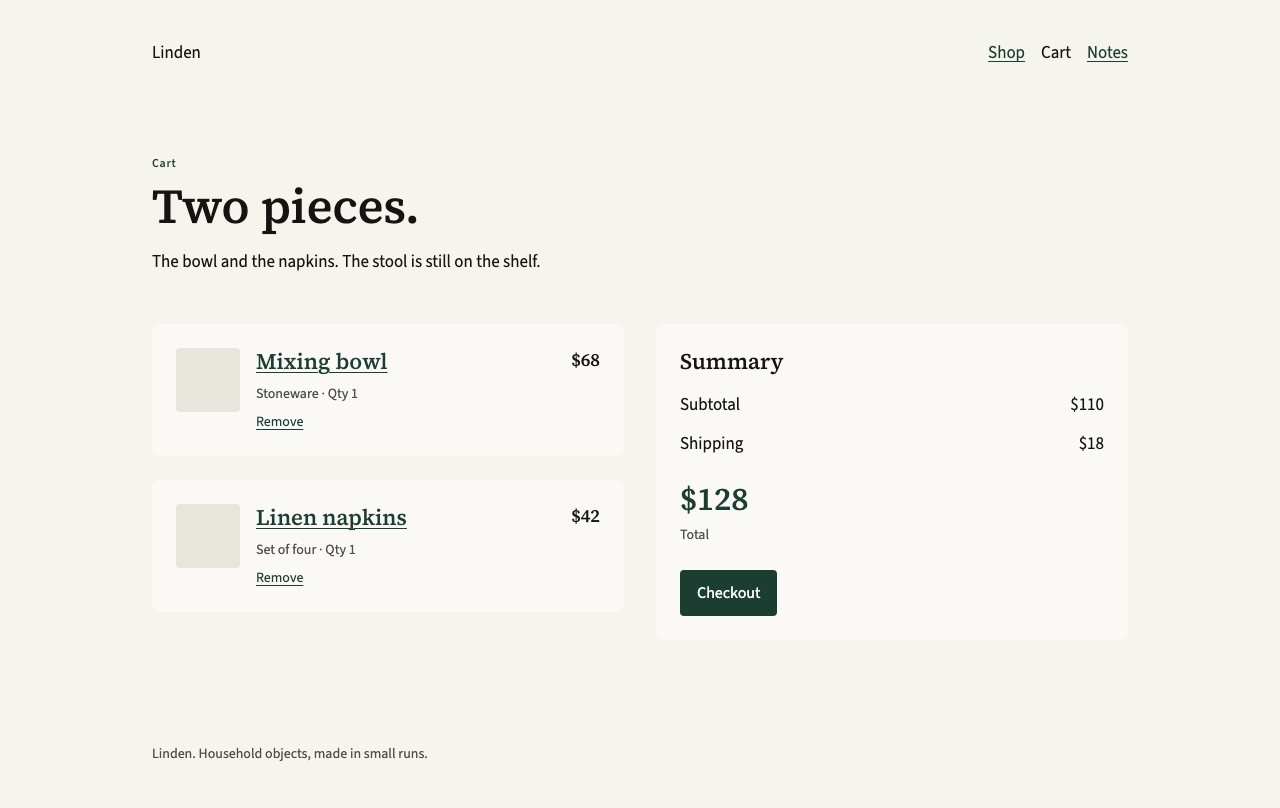
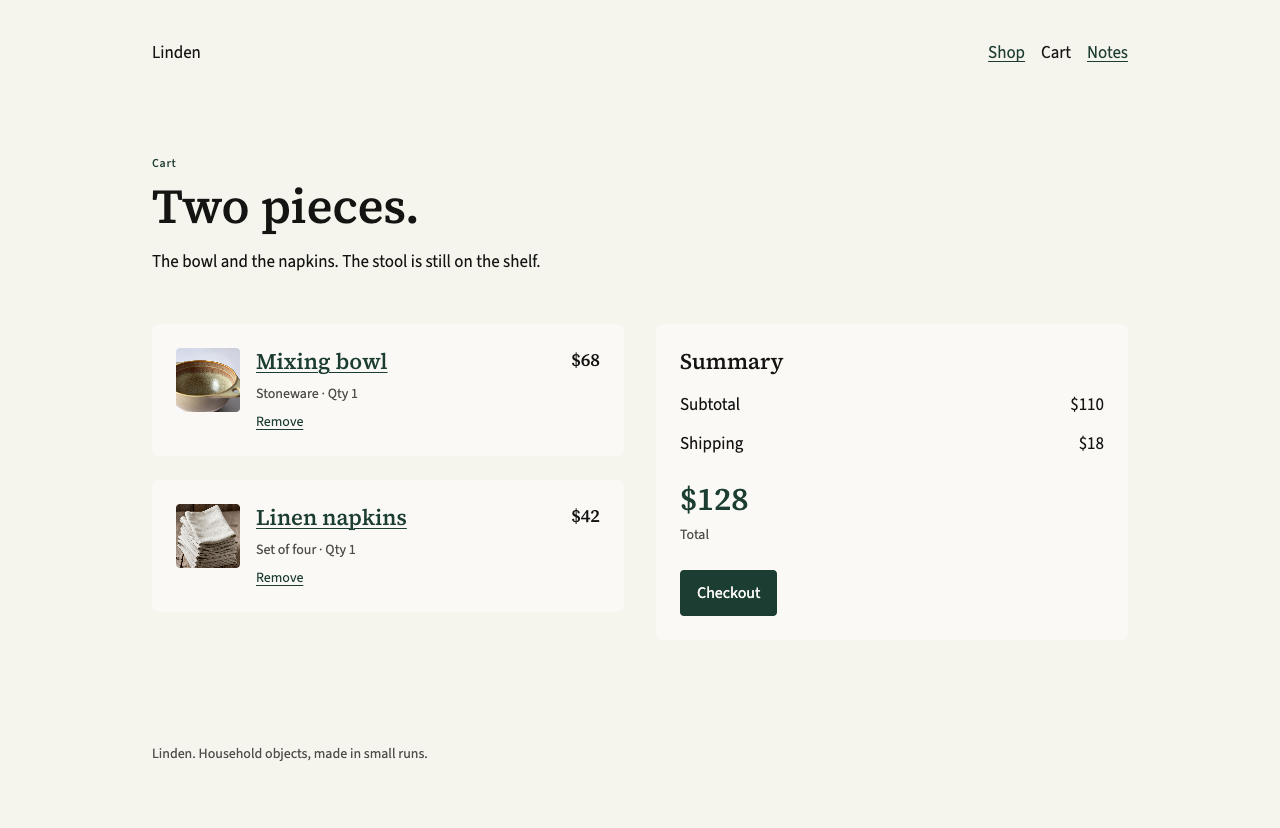
Updated images and screenshots

diff --git a/shop.html b/shop.html
@@ -24,19 +24,19 @@
   </div>
   <div class="catalog">
     <article class="card product">
-      <a class="media-link" href="product.html"><span class="media media-sand"></span></a>
+      <a class="media-link" href="product.html"><img class="media" src="images/mixing-bowl.jpg" alt="Ash-glazed mixing bowl, seen from above"></a>
       <h2 class="name"><a href="product.html">Mixing bowl</a></h2>
       <p class="caption">Stoneware, 24 cm</p>
       <p class="price">$68</p>
     </article>
     <article class="card product">
-      <a class="media-link" href="napkins.html"><span class="media media-sand"></span></a>
+      <a class="media-link" href="napkins.html"><img class="media" src="images/linen-napkins.jpg" alt="Folded linen napkins"></a>
       <h2><a href="napkins.html">Linen napkins</a></h2>
       <p class="caption">Set of four, 45 cm</p>
       <p class="price">$42</p>
     </article>
     <article class="card product">
-      <a class="media-link" href="stool.html"><span class="media media-line"></span></a>
+      <a class="media-link" href="stool.html"><img class="media" src="images/oak-stool.jpg" alt="Three-legged oak stool"></a>
       <h2><a href="stool.html">Oak stool</a></h2>
       <p class="caption">White oak, 46 cm</p>
       <p class="price">$220</p>

diff --git a/cart.html b/cart.html
@@ -25,7 +25,7 @@
   <div class="split">
     <div class="lines">
       <article class="card line">
-        <div class="thumb media-sand"></div>
+        <img class="thumb" src="images/mixing-bowl.jpg" alt="">
         <div class="text">
           <h2><a href="product.html">Mixing bowl</a></h2>
           <p class="caption">Stoneware · Qty 1</p>
@@ -34,7 +34,7 @@
         <p class="price">$68</p>
       </article>
       <article class="card line">
-        <div class="thumb media-sand"></div>
+        <img class="thumb" src="images/linen-napkins.jpg" alt="">
         <div class="text">
           <h2><a href="napkins.html">Linen napkins</a></h2>
           <p class="caption">Set of four · Qty 1</p>

diff --git a/site.css b/site.css
@@ -214,7 +214,9 @@ p { margin: 0; }
 
 .media {
   display: block;
+  width: 100%;
   aspect-ratio: 4 / 5;
+  object-fit: cover;
   border-radius: var(--radius-control);
 }
 
@@ -232,7 +234,10 @@ p { margin: 0; }
 }
 
 .stage {
+  display: block;
+  width: 100%;
   aspect-ratio: 1 / 1;
+  object-fit: cover;
   border-radius: var(--radius-card);
 }
 
@@ -335,6 +340,7 @@ input {
   width: 64px;
   height: 64px;
   flex: none;
+  object-fit: cover;
   border-radius: var(--radius-control);
 }
 

diff --git a/product.html b/product.html
@@ -18,7 +18,7 @@
 </header>
 <main id="content" class="inner">
   <div class="product-layout">
-    <div class="stage media-sand" role="img" aria-label="Ash-glazed mixing bowl, seen from above"></div>
+    <img class="stage" src="images/mixing-bowl.jpg" alt="Ash-glazed mixing bowl, seen from above">
     <div>
       <p class="overline">Stoneware</p>
       <h1>Mixing bowl</h1>

diff --git a/napkins.html b/napkins.html
@@ -18,7 +18,7 @@
 </header>
 <main id="content" class="inner">
   <div class="product-layout">
-    <div class="stage media-sand" role="img" aria-label="Folded linen napkins"></div>
+    <img class="stage" src="images/linen-napkins.jpg" alt="Folded linen napkins">
     <div>
       <p class="overline">Linen</p>
       <h1>Linen napkins</h1>

diff --git a/stool.html b/stool.html
@@ -18,7 +18,7 @@
 </header>
 <main id="content" class="inner">
   <div class="product-layout">
-    <div class="stage media-line" role="img" aria-label="Three-legged oak stool"></div>
+    <img class="stage" src="images/oak-stool.jpg" alt="Three-legged oak stool">
     <div>
       <p class="overline">Oak</p>
       <h1>Oak stool</h1>
